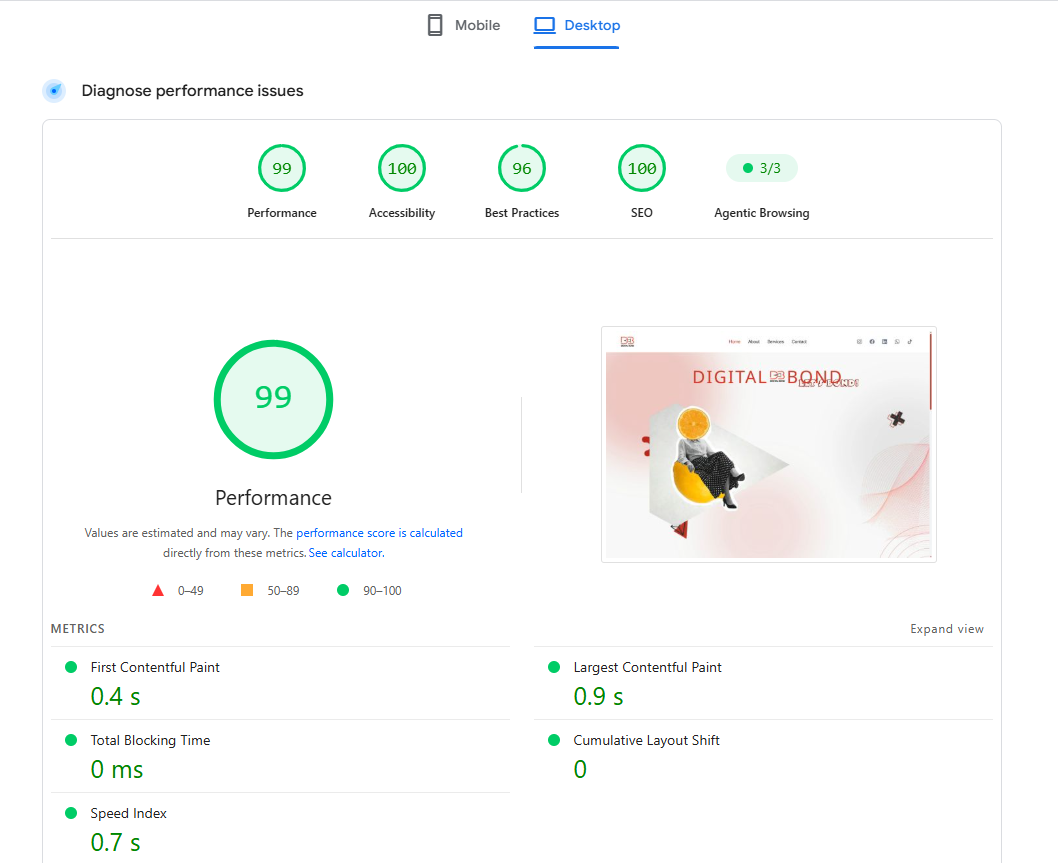
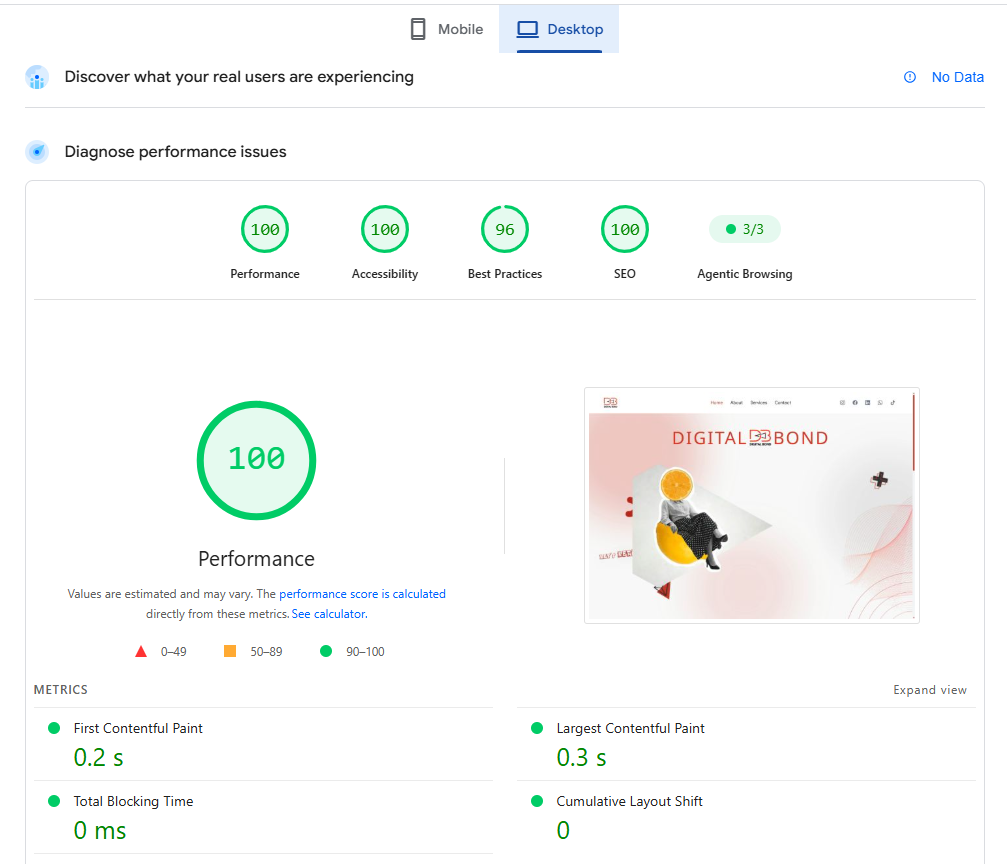
Update readme File

diff --git a/README.md b/README.md
@@ -9,7 +9,7 @@ The app delivers a modern agency-style experience with Server-Side Rendering (SS
 ------
 
 # PageSpeed Insights - Link
-  https://pagespeed.web.dev/analysis/https-digital-bond-six-vercel-app-home/fr0po4hxjf?form_factor=desktop 
+  https://pagespeed.web.dev/analysis/https-digital-bond-six-vercel-app-home/q7ebgwggjb?form_factor=mobile 
 
 
 
